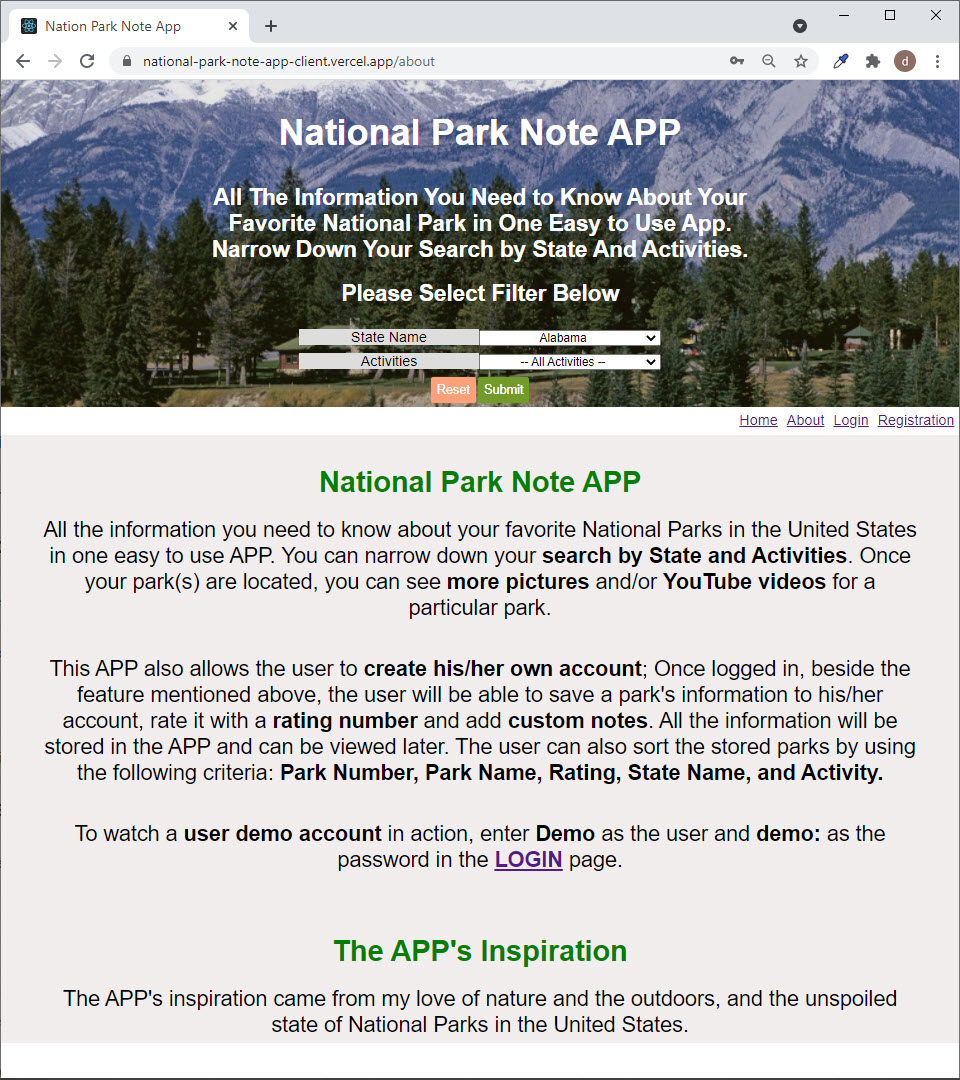
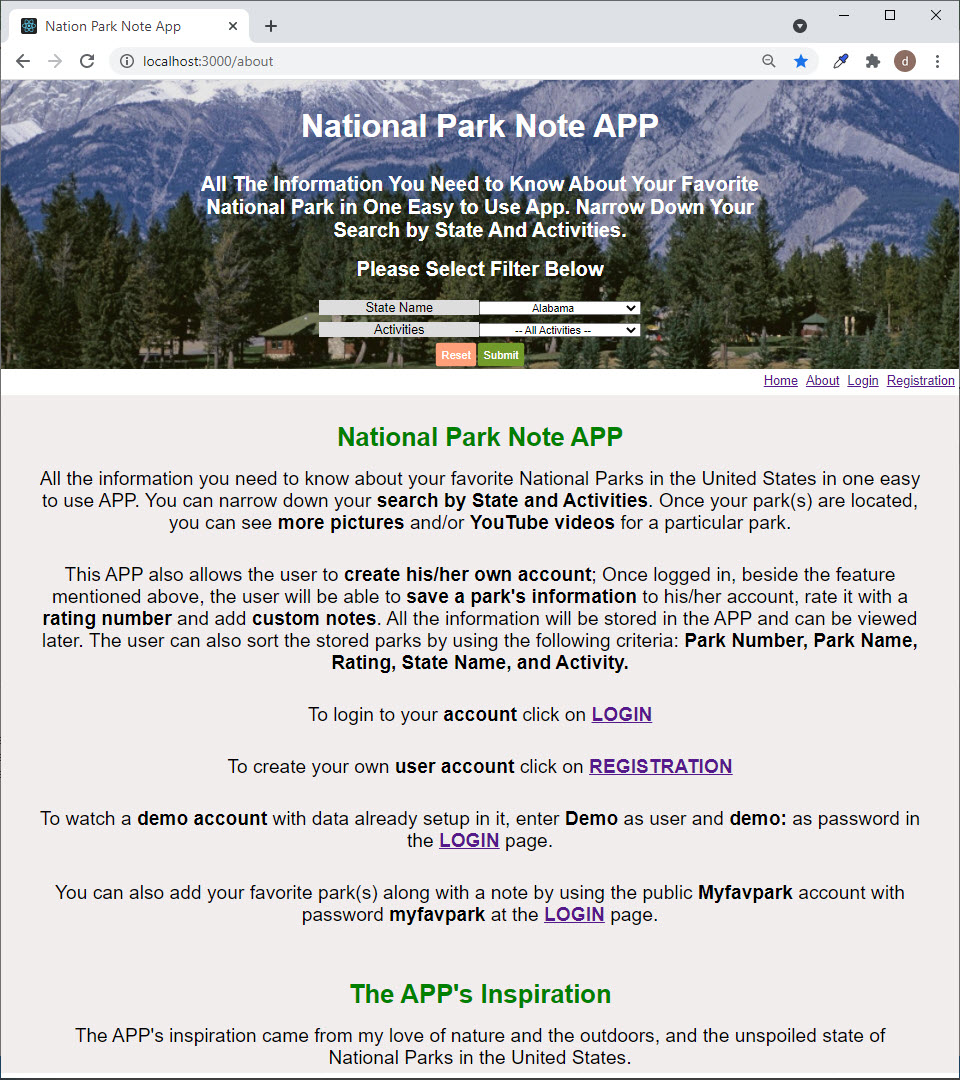
fix state name not showing; about page update

diff --git a/src/components/AboutContent.js b/src/components/AboutContent.js
@@ -18,14 +18,36 @@ export default function AboutContent(props) {
             <br />
           </p>
 
-          <p>This APP also allows the user to <b>create his/her own account</b>; Once logged in, beside the feature mentioned above, the user will be able to save a park's information to his/her account, rate it with a <b>rating number</b> and add <b>custom notes</b>. All the information will be stored in the APP and can be viewed later. The user can also sort the stored parks by using the following criteria: <b>Park Number, Park Name, Rating, State Name, and  Activity.</b>
+          <p>This APP also allows the user to <b>create his/her own account</b>; Once logged in, beside the feature mentioned above, the user will be able to <b>save a park's information</b> to his/her account, rate it with a <b>rating number</b> and add <b>custom notes</b>. All the information will be stored in the APP and can be viewed later. The user can also sort the stored parks by using the following criteria: <b>Park Number, Park Name, Rating, State Name, and  Activity.</b>
             <br />
             <br />
           </p>
 
           <p>
-            To watch a <b>user demo account</b> in action,
-            enter <b>Demo</b> as the user and <b>demo:</b> as the password in the
+            To login to your <b>account</b> click on 
+          <span> </span>
+            <Link to='/login' >
+              <b>LOGIN</b>
+            </Link >
+            <br />
+            <br />
+          </p>
+
+
+          <p>
+            To create your own <b>user account</b> click on 
+          <span> </span>
+            <Link to='/registration' >
+              <b>REGISTRATION</b>
+            </Link >
+            <span> </span>
+            <br />
+            <br />
+          </p>
+
+          <p>
+              To watch a <b>demo account</b> with data already setup in it, 
+            enter <b>Demo</b> as user and <b>demo:</b> as password in the
           <span> </span>
             <Link to='/login' >
               <b>LOGIN</b>
@@ -35,6 +57,19 @@ export default function AboutContent(props) {
             <br />
             <br />
           </p>
+
+          <p>
+              You can also add your favorite park(s) along with a note by using the public <b>Myfavpark</b> account with password <b>myfavpark</b> at the 
+          <span> </span>
+            <Link to='/login' >
+              <b>LOGIN</b>
+            </Link >
+            <span> </span>
+          page.
+            <br />
+            <br />
+          </p>
+
           <h1>
             The APP's Inspiration
           </h1>

diff --git a/src/components/FavParkItem.js b/src/components/FavParkItem.js
@@ -61,7 +61,7 @@ class FavParkItem extends Component {
     {
       siteAddress = `
             ${parkdata.addresses[0].line1}
-            ${parkdata.addresses[0].city},  ${parkdata.addresses[0].statecode} ${parkdata.addresses[0].postalCode} 
+            ${parkdata.addresses[0].city},  ${parkdata.addresses[0].stateCode} ${parkdata.addresses[0].postalCode} 
             `;
     }
 

diff --git a/src/components/ParkItem.js b/src/components/ParkItem.js
@@ -57,7 +57,7 @@ class ParkItem extends Component {
     {
       siteAddress = `
             ${itemData.addresses[0].line1}
-            ${itemData.addresses[0].city},  ${itemData.addresses[0].statecode} ${itemData.addresses[0].postalCode} 
+            ${itemData.addresses[0].city},  ${itemData.addresses[0].stateCode} ${itemData.addresses[0].postalCode} 
             `;
     }
 
